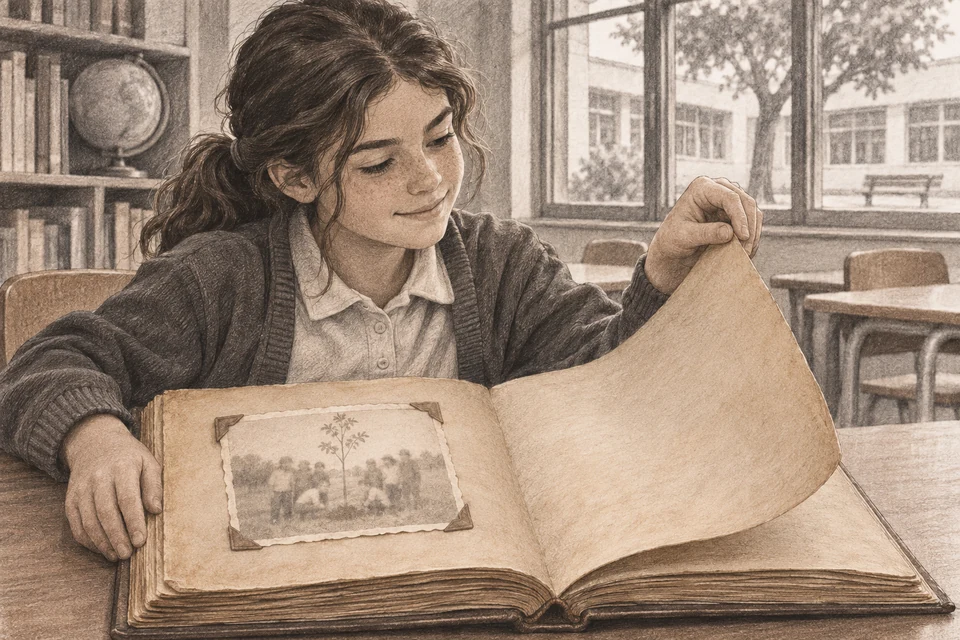
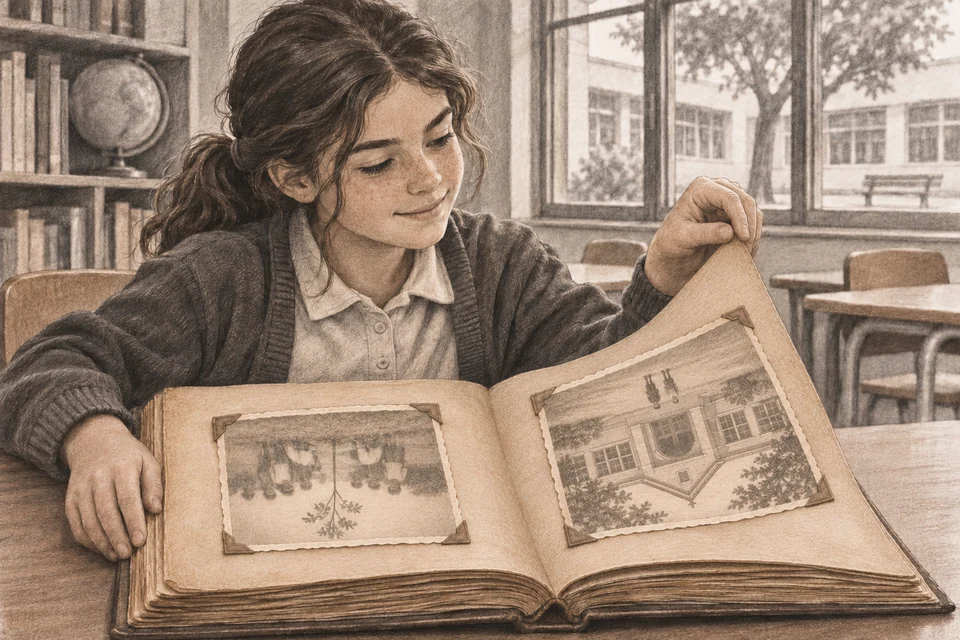
Orient the album photographs toward Nora in L073

diff --git a/data/readings-6-es.js b/data/readings-6-es.js
@@ -941,7 +941,7 @@ export const readings6Es = [
         "src": "assets/readings/l073-la-ultima-foto-del-album.webp",
         "width": 960,
         "height": 640,
-        "alt": "Nora mira una fotografía antigua de la escuela en la última página de un álbum.",
+        "alt": "Nora levanta una página de un álbum. Hay dos fotografías antiguas orientadas hacia ella: un grupo junto a un árbol joven y la entrada de la escuela.",
         "afterParagraph": 1
       }
     ],

diff --git a/assets/readings/L073-illustracio.md b/assets/readings/L073-illustracio.md
@@ -2,6 +2,8 @@
 
 Imatge `l073-la-ultima-foto-del-album.webp`, generada amb el generador integrat i optimitzada per al catàleg.
 
+La revisió mostra una fotografia a cada pàgina oberta. Les dues fotos són del dret des del punt de vista de la Nora.
+
 ```text
 Original wide 3:2 editorial illustration for a Spanish primary-school reading worksheet. A sixth-grade pupil turns the last page of a big archival photo album in her school. A small faded photograph shows an indistinct group by a newly planted young tree; no identifying faces or writing in the photo. Rich muted graphite and warm brown paper illustration. Clear grayscale reproduction on a school printer. No captions, readable text, logos, border, or collage layout.
 ```
